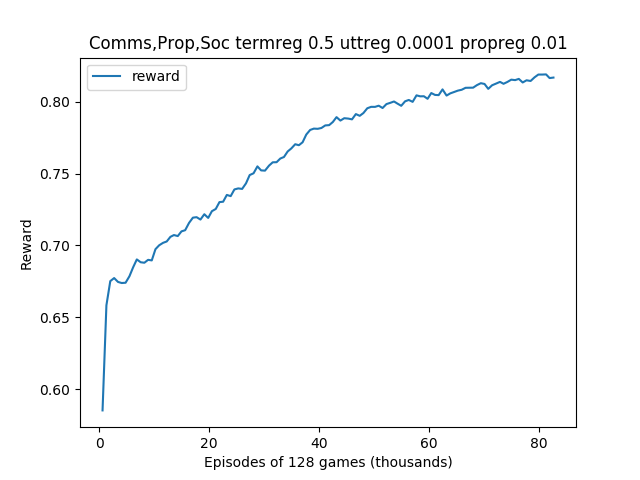
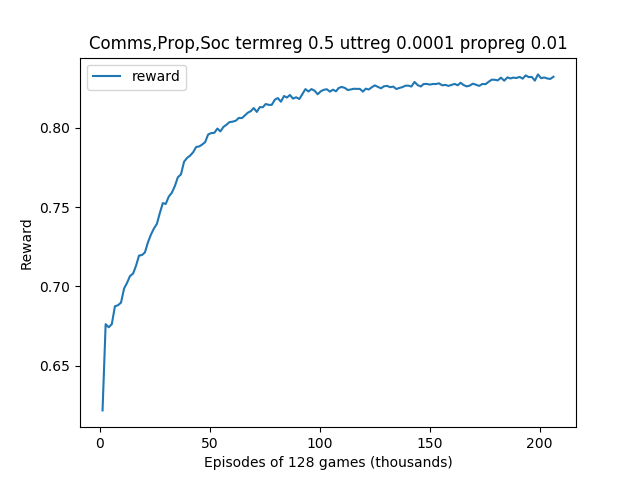
graph with stochasticity off

diff --git a/plot_graphs.py b/plot_graphs.py
@@ -10,6 +10,7 @@ import numpy as np
 def plot_reward(logfile, min_y, max_y, title, max_x):
     epoch = []
     reward = []
+    test_reward = []
     logfiles = logfile
     for logfile in logfiles.split(','):
         with open(logfile, 'r') as f:
@@ -24,21 +25,32 @@ def plot_reward(logfile, min_y, max_y, title, max_x):
                     continue
                 epoch.append(int(d['episode']))
                 reward.append(float(d['avg_reward_0']))
+                if 'test_reward' in d:
+                    test_reward.append(d['test_reward'])
     while len(epoch) > 200:
         new_epoch = []
         new_reward = []
+        new_test_reward = []
         for n in range(len(epoch) // 2):
             r = (reward[n * 2] + reward[n * 2 + 1]) / 2
             e = epoch[n] * 2
             new_epoch.append(e)
             new_reward.append(r)
+            if len(test_reward) > 0:
+                rt = (test_reward[n * 2] + test_reward[n * 2 + 1]) / 2
+                new_test_reward.append(rt)
         epoch = new_epoch
         reward = new_reward
+        test_reward = new_test_reward
     if min_y is None:
         min_y = 0
     if max_y is not None:
         plt.ylim([min_y, max_y])
-    plt.plot(np.array(epoch) / 1000, reward, label='reward')
+    if len(test_reward) > 0:
+        plt.plot(np.array(epoch) / 1000, reward, label='train')
+        plt.plot(np.array(epoch) / 1000, test_reward, label='test')
+    else:
+        plt.plot(np.array(epoch) / 1000, reward, label='reward')
     if title is not None:
         plt.title(title)
     plt.xlabel('Episodes of 128 games (thousands)')

diff --git a/explog.md b/explog.md
@@ -644,5 +644,8 @@ implemented running tests every 30 seconds or so, lets spin up a gpu, and start 
 
 ```
 python ecn.py --enable-cuda --name gpu1withtests --model-file model_saves/gpu1newreinf_termentreg0_5_uttreg0_0001_propreg0_01.dat --term-entropy-reg 0.5 --utterance-entropy-reg 0.0001 --proposal-entropy-reg 0.01
+python merge.py --hostname gpu2 --logfile logs/log_20171115_012645gpu1withtests.log --title 'Comms,Prop,Soc termreg 0.5 uttreg 0.0001 propreg 0.01, run 2'
 ```
 
+After ~100k batches, this second run looks promising, reached ~0.94 on test, ie with stochasticity disabled:
+- [images/v030_comms_social_prop_termreg0_5_uttreg0_0001_propreg0_01_run2.png]
